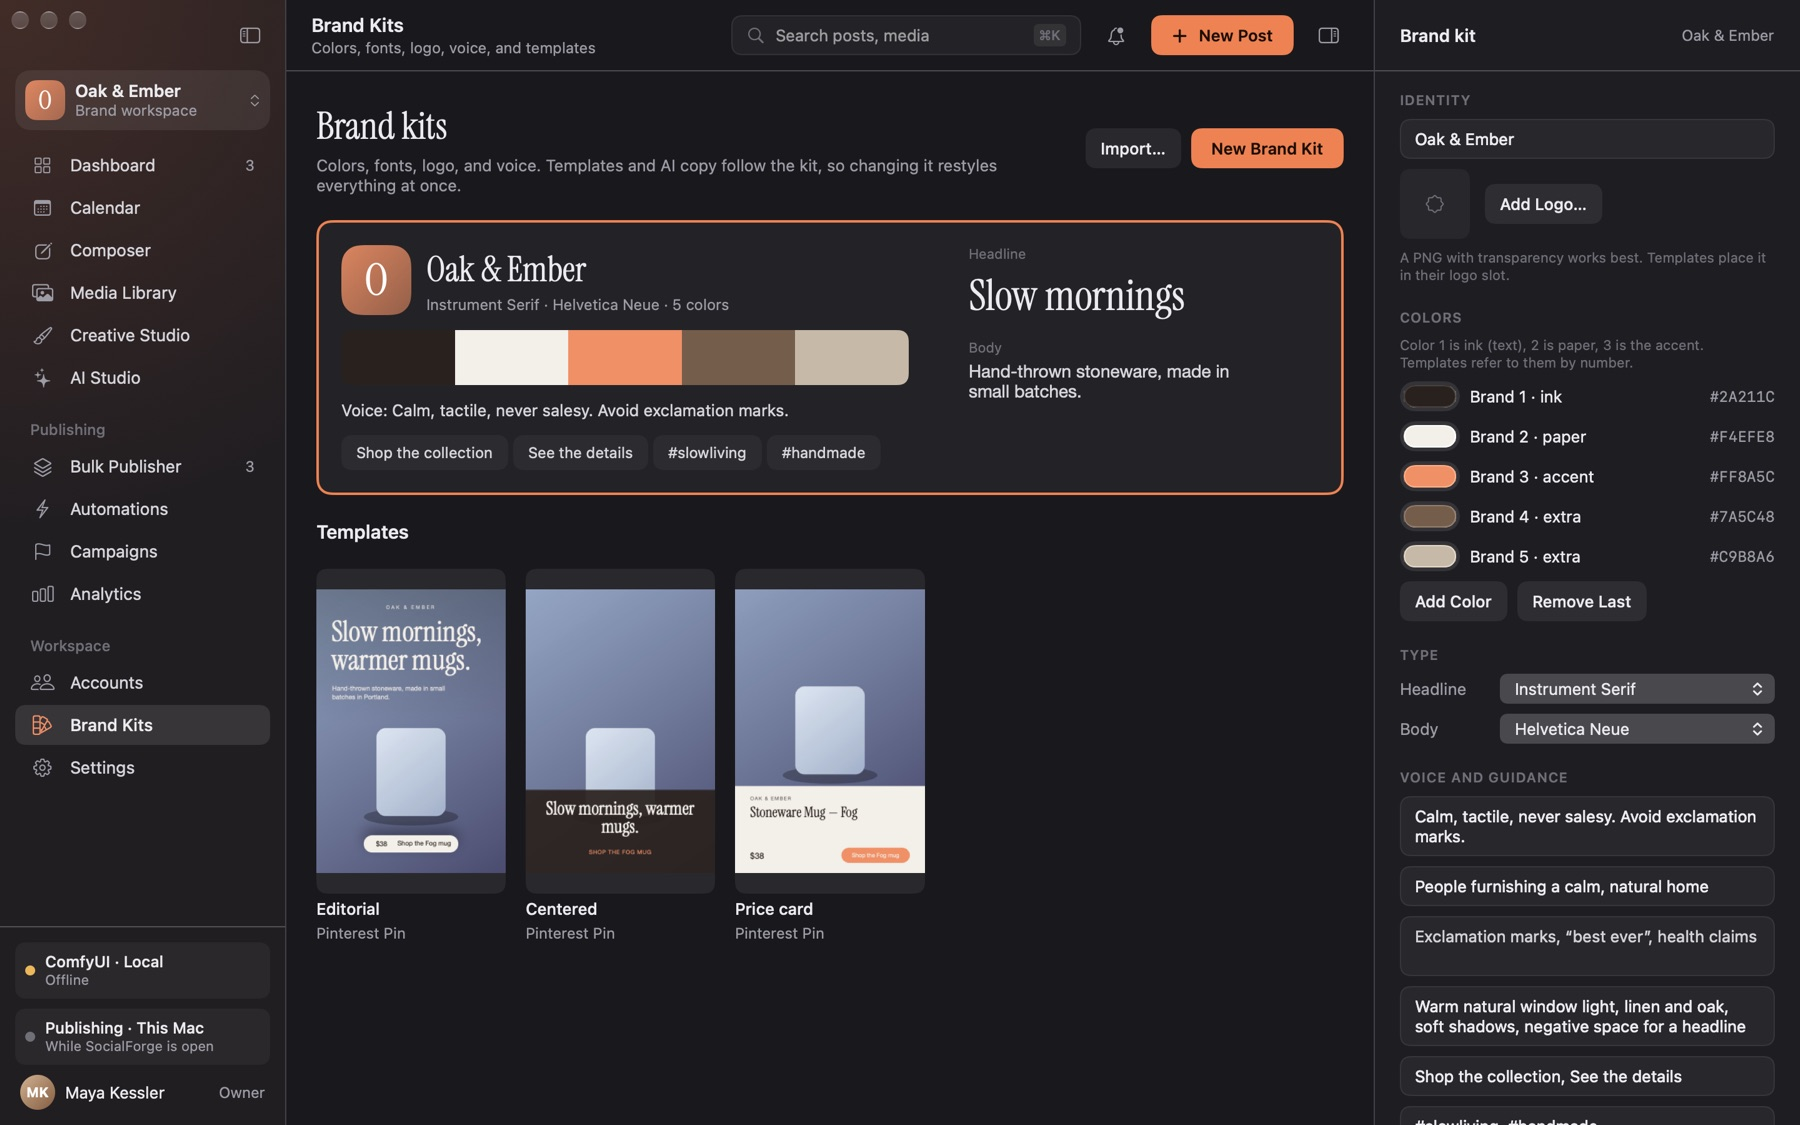
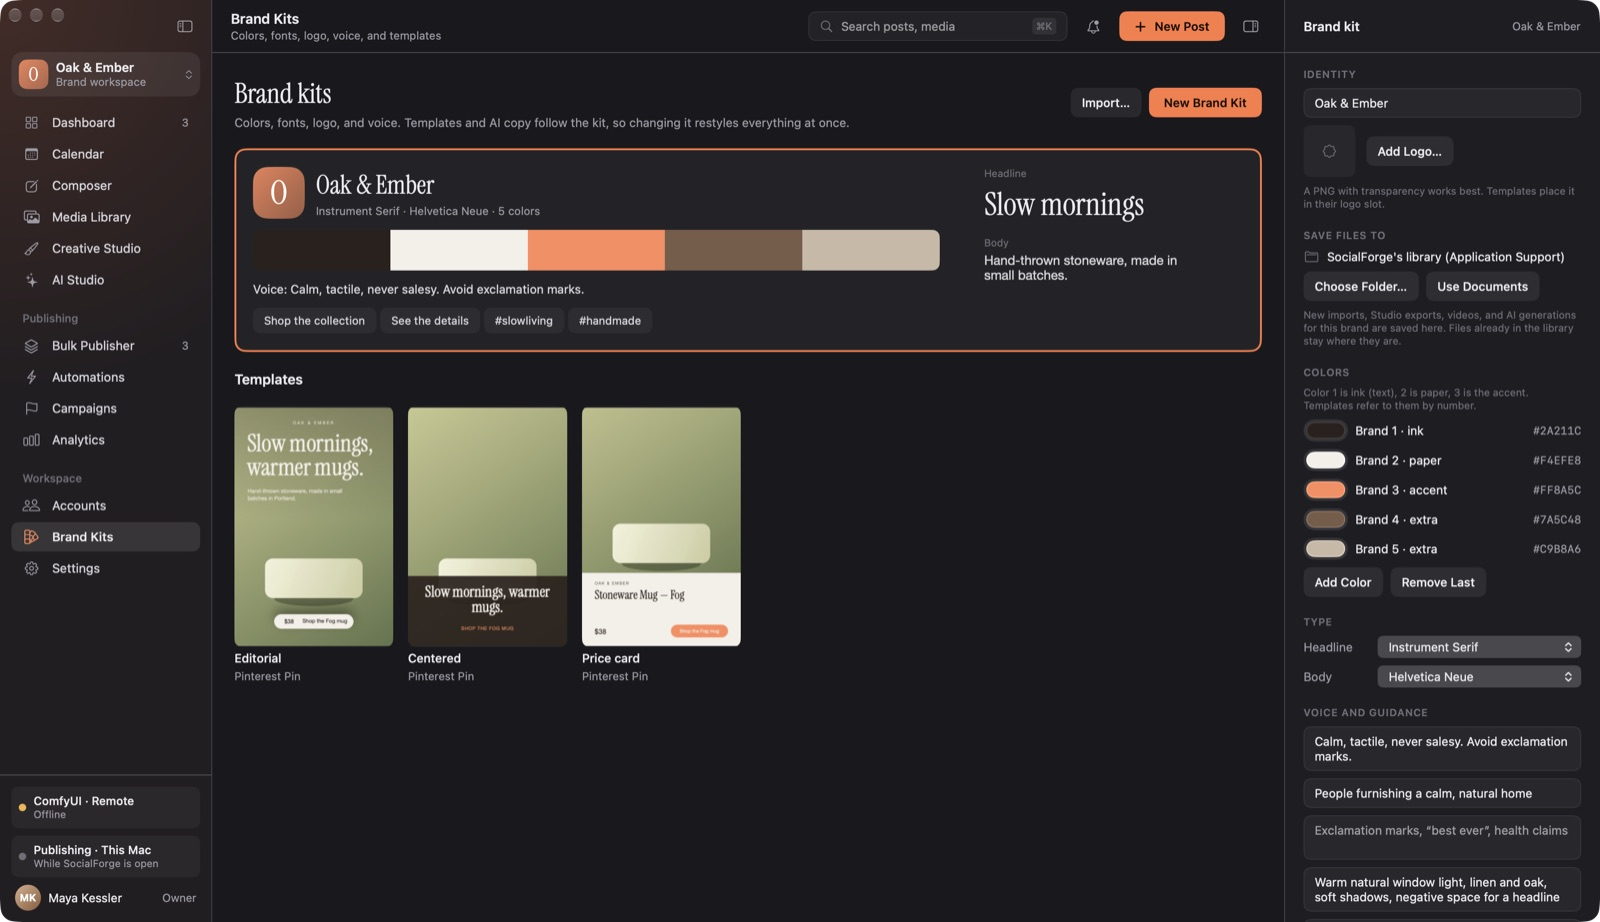
SocialForge 0.5.0: unified connections, 8 platform adapters, hardened OAuth/MCP, workflow & API upgrades

diff --git a/index.html b/index.html
@@ -3,6 +3,7 @@
 <head>
 <meta charset="utf-8">
 <meta name="viewport" content="width=device-width, initial-scale=1">
+<meta name="referrer" content="no-referrer">
 <title>SocialForge</title>
 <meta name="description" content="A native Mac studio that turns product photos, clips, and a CSV into on-brand Pins, Reels, and Shorts, with your own ComfyUI for images, video, and music.">
 <link rel="icon" href="assets/icon.png">
@@ -140,9 +141,9 @@ footer { padding: 40px 0 60px; color: var(--text2); font-size: 14px; display: fl
 
   <header class="hero">
     <div>
-      <span class="eyebrow"><b>●</b> Native for macOS 26 · free and open source · version 0.3</span>
+      <span class="eyebrow"><b>●</b> Native for macOS 26 · free and open source · version 0.5.0</span>
       <h1 class="serif">Pins, Reels, and Shorts,<br>forged in <em>one sitting</em>.</h1>
-      <p class="lede">Drop in product photos, clips, music, and a CSV of links. SocialForge dresses every image and video in your brand template with real, editable type, makes backgrounds, clips, and songs with your own ComfyUI, plans the calendar, and posts from your Mac. You approve everything first.</p>
+      <p class="lede">Drop in product photos, clips, music, and a CSV of links. SocialForge dresses every image and video in your brand template with real, editable type, generates assets with your own ComfyUI or BYOK AI providers, plans the calendar, and posts across eight platforms from your Mac. You approve everything first.</p>
       <div class="ctas">
         <a class="btn primary" href="https://github.com/rmclain/socialforge/releases/latest">Download for Mac <span class="spark">✦</span></a>
         <a class="btn ghost" href="https://github.com/rmclain/socialforge">View the code</a>
@@ -174,12 +175,12 @@ footer { padding: 40px 0 60px; color: var(--text2); font-size: 14px; display: fl
     <div class="shot"><img src="assets/studio-video-dark.jpg" alt="Creative Studio editing a 12-second TikTok video: layers, a product clip, a music track, a timeline, and which platforms the video fits" loading="lazy"></div>
     <p class="fine">Creative Studio, video edition: a looping product clip, a music track that fades out, a headline that appears at two seconds, and a check against every platform's video rules. Export Video writes an MP4 with real fonts.</p>
     <div class="gallery" style="margin-top:20px">
-      <figure><div class="shot"><img src="assets/ai-video-crop.jpg" alt="AI Studio in Video mode with a prompt, workflow, aspect, and length" loading="lazy"></div><figcaption>AI Studio makes clips with your ComfyUI: pick the aspect and length, then drop the result straight onto a design.</figcaption></figure>
-      <figure><div class="shot"><img src="assets/ai-music-crop.jpg" alt="AI Studio in Music mode with a style line and lyrics" loading="lazy"></div><figcaption>Music mode writes a song from a style line and your lyrics, ready to sit under a video.</figcaption></figure>
-      <figure><div class="shot"><img src="assets/bulk-dark.jpg" alt="Bulk Publisher: images matched to a CSV, a queue of Pins, and the cadence panel" loading="lazy"></div><figcaption>Bulk Publisher: thirty photos and a CSV become a month of scheduled Pins.</figcaption></figure>
-      <figure><div class="shot"><img src="assets/settings-publishing-dark.jpg" alt="Settings, Publishing: every platform with its status and video limits" loading="lazy"></div><figcaption>Every platform, with an honest status and its video rules.</figcaption></figure>
-      <figure><div class="shot"><img src="assets/calendar-dark.jpg" alt="Calendar month view with a Pin on every day" loading="lazy"></div><figcaption>The calendar: drag a post to another day; its time stays put.</figcaption></figure>
-      <figure><div class="shot"><img src="assets/brandKits-dark.jpg" alt="Brand kit with palette, fonts, voice, and templates" loading="lazy"></div><figcaption>Brand kits drive every template. Change a color once; everything follows.</figcaption></figure>
+      <figure><div class="shot"><img src="assets/accounts-dark.jpg" alt="Unified Connections hub with Social Accounts, AI Providers, Media Storage, Automation and Agents, and Publishing Infrastructure" loading="lazy"></div><figcaption>Unified Connections: guided setup wizards, shared credentials across brand workspaces, and sanitized diagnostics.</figcaption></figure>
+      <figure><div class="shot"><img src="assets/composer-dark.jpg" alt="Multi-platform Composer supporting all 8 platforms, carousels, AI Copy, and native previews" loading="lazy"></div><figcaption>Composer: write once for all eight platforms, attach carousels, generate AI copy, and schedule independently.</figcaption></figure>
+      <figure><div class="shot"><img src="assets/bulk-dark.jpg" alt="Bulk Publisher: images matched to a CSV, multi-platform queue, recipes, and cadence panel" loading="lazy"></div><figcaption>Bulk Publisher: thirty photos and a CSV become a month of scheduled posts, with saved recipes and error export.</figcaption></figure>
+      <figure><div class="shot"><img src="assets/calendar-dark.jpg" alt="Calendar month view with a post on every day and attention-focused queue" loading="lazy"></div><figcaption>The calendar and queue: DST-safe rescheduling, attention filters, and manual reconciliation for uncertain timeouts.</figcaption></figure>
+      <figure><div class="shot"><img src="assets/ai-video-crop.jpg" alt="AI Studio in Video mode with a prompt, workflow, aspect, and length" loading="lazy"></div><figcaption>AI Studio makes clips and music with your ComfyUI (with preflight workflow validation), ready for Creative Studio.</figcaption></figure>
+      <figure><div class="shot"><img src="assets/brandKits-dark.jpg" alt="Brand kit with palette, fonts, voice, and templates" loading="lazy"></div><figcaption>Brand kits drive every template and keep workspaces strictly isolated. Change a color once; everything follows.</figcaption></figure>
     </div>
   </section>
 
@@ -192,31 +193,33 @@ footer { padding: 40px 0 60px; color: var(--text2); font-size: 14px; display: fl
       <div class="feature"><div class="ico">🎬</div><h3>Video studio</h3><p>Drop clips and music on the canvas, time each layer, and export an MP4 (H.264 and AAC) sized for TikTok, Reels, Shorts, Pinterest, and more.</p></div>
       <div class="feature"><div class="ico">✨</div><h3>AI Studio</h3><p>Images, clips, and songs from your own ComfyUI, plus titles and descriptions from OpenAI, Anthropic, Gemini, or a local model. Type stays real text unless you ask the model for it.</p></div>
       <div class="feature"><div class="ico">🧩</div><h3>Starter workflows</h3><p>Five ComfyUI workflows ship in the app: background image, image with words in it, vertical and square video, and music. <a href="https://github.com/rmclain/socialforge/tree/main/comfyui/workflows">Download them</a> for your own ComfyUI.</p></div>
-      <div class="feature"><div class="ico">📮</div><h3>Publishing</h3><p>Your Mac posts to Pinterest, Facebook Pages, Instagram, and Threads with your own developer apps, with retries and no double posts after a timeout.</p></div>
-      <div class="feature"><div class="ico">✍</div><h3>Composer</h3><p>Write once and get a version per platform, with its own preview and limits, including video rules.</p></div>
-      <div class="feature"><div class="ico">✂</div><h3>On-device magic</h3><p>Remove backgrounds, smart-crop around the subject, upscale, and tone to your brand color. Your photos never leave the Mac.</p></div>
-      <div class="feature"><div class="ico">⚡</div><h3>Automations</h3><p>Watch a folder, resize, brand, write, and queue. Every run stops for your approval.</p></div>
+      <div class="feature"><div class="ico">📮</div><h3>Publishing</h3><p>Your Mac posts to Pinterest, Facebook Pages, Instagram, Threads, LinkedIn, X, TikTok, and YouTube with your own developer apps, PKCE OAuth, token refresh, retries, and reconciliation.</p></div>
+      <div class="feature"><div class="ico">✍</div><h3>Composer</h3><p>Write once and get tailored versions for all eight platforms, carousels, native previews, campaign UTMs, and disclosure fields.</p></div>
+      <div class="feature"><div class="ico">🔌</div><h3>Inbound &amp; Outbound MCP</h3><p>Let coding agents queue drafts for review via a hardened 17-tool MCP server, or connect creative MCP tools like ArtCraft with per-tool allow-lists and approval prompts.</p></div>
+      <div class="feature"><div class="ico">⚡</div><h3>Automations</h3><p>Watch a folder, resize, brand, write, and queue. Workspace-isolated, protected against watching managed storage, and always stopping for your approval.</p></div>
     </div>
   </section>
 
   <section id="platforms">
     <h2 class="serif">Where it posts</h2>
-    <p class="sub">Posting goes through developer apps you create on each platform, so your keys stay in your Keychain.</p>
+    <p class="sub">Posting goes through developer apps you create on each platform, so your keys stay in your macOS Keychain. Guided setup wizards live under Connections.</p>
     <div class="honest">
       <div class="col">
-        <h3>Posts from your Mac</h3>
+        <h3>Direct from your Mac</h3>
         <ul>
-          <li><b>Pinterest</b>: image Pins, scheduled in bulk</li>
-          <li><b>Facebook Pages</b>: text, photos, and Reels</li>
-          <li><b>Instagram</b>: Reels upload straight from your Mac; photos need a public storage bucket (Cloudflare R2 or any S3-compatible one)</li>
-          <li><b>Threads</b>: text posts; photos and video use the same storage bucket</li>
+          <li><b>Pinterest</b>: Image &amp; Video Pins, board sections, OAuth refresh</li>
+          <li><b>Facebook Pages</b>: text, photo, multi-photo, link, and Reels</li>
+          <li><b>Instagram</b>: Facebook Login or direct Instagram Business Login; Reels upload directly, photos &amp; carousels use your S3/R2 bucket</li>
+          <li><b>Threads</b>: text, photo, video, and carousels with long-lived token refresh</li>
         </ul>
       </div>
       <div class="col">
-        <h3>Export or drafts</h3>
+        <h3>Official OAuth &amp; PKCE adapters</h3>
         <ul>
-          <li><b>TikTok</b> and <b>YouTube Shorts</b>: SocialForge makes the video at the right size and length; you upload it. Their APIs keep posts private until an app passes their audit.</li>
-          <li><b>X</b> and <b>LinkedIn</b>: saved as drafts for now</li>
+          <li><b>LinkedIn</b>: personal profiles and organization pages with media upload</li>
+          <li><b>X</b>: OAuth 2.0 PKCE, v2 chunked media upload, weighted character counting</li>
+          <li><b>TikTok</b>: Content Posting API v2 with creator info check, Inbox &amp; Direct Post (plus manual fallback for unaudited apps)</li>
+          <li><b>YouTube</b>: Google OAuth PKCE resumable upload for Videos &amp; Shorts with visibility and disclosure fields</li>
         </ul>
       </div>
     </div>
@@ -228,20 +231,20 @@ footer { padding: 40px 0 60px; color: var(--text2); font-size: 14px; display: fl
       <div class="col">
         <h3>Works today</h3>
         <ul>
-          <li>The whole bulk Pinterest flow, end to end, with a built-in mock account to try it safely</li>
-          <li>Video designs with clips, music, and timed layers, exported as MP4 and checked by automated tests</li>
-          <li>AI Studio's image, image-with-text, video, and music starter workflows, run end to end on a real ComfyUI server</li>
-          <li>Brand templates, smart resize, analytics from your real data, campaigns with UTM links</li>
-          <li>Automatic updates from these GitHub releases</li>
+          <li>Unified Connections hub, guided setup wizards, Keychain credential profiles, and secret-redacted diagnostics</li>
+          <li>End-to-end bulk publishing, calendar, attention queue, and background agent lock handoff (197 unit tests, 89 E2E self-test checks, 23 optional API tests)</li>
+          <li>Video studio with clips, music, safe-zone guides, and MP4 export; ComfyUI workflow validation &amp; job-scoped cancellation</li>
+          <li>Brand templates, smart resize, multi-brand workspace isolation, campaigns with UTM links, and hardened Inbound/Outbound MCP</li>
+          <li>Automatic updates from GitHub releases with TeamIdentifier and bundle-ID verification</li>
         </ul>
       </div>
       <div class="col">
         <h3>Still on the workbench</h3>
         <ul>
-          <li>Live posting to Pinterest, Facebook, Instagram, and Threads is built to their docs and tested against stand-ins, but hasn't made its first real post yet</li>
-          <li>TikTok and YouTube are export-only, and X and LinkedIn are drafts</li>
-          <li>A Mac can't post while it's asleep: due posts go out when it wakes</li>
-          <li>The cloud AI connections are built to their docs; bring your own key and test it</li>
+          <li>All eight social platform adapters are built against official API docs and verified with stubbed HTTP tests, but remain labeled <b>unverified live</b> until run with real developer credentials</li>
+          <li>A Mac can't post while asleep (due posts follow your missed-post policy on wake); the optional Fastify service in <code>services/api</code> covers asleep-Mac Pinterest publishing</li>
+          <li>Background publisher Login Items registration (<code>SMAppService</code>) requires interactive approval in System Settings</li>
+          <li>Cloud AI, ComfyUI, and S3/R2 connections are tested with stubbed HTTP; bring your own key/bucket and run Verify Connection</li>
         </ul>
       </div>
     </div>
@@ -276,19 +279,30 @@ footer { padding: 40px 0 60px; color: var(--text2); font-size: 14px; display: fl
   <button class="btn primary" id="signin-copy" type="button">Copy address</button>
 </div>
 <script>
-// Threads sends people back here after they sign in (SocialForge's redirect). Help them hand the address to the app.
+// Threads sends people back here after they sign in (SocialForge's redirect).
+// Capture the full callback URL into memory and immediately strip sensitive query/fragment
+// parameters from the address bar and history so codes cannot leak via referrers or history.
 (function () {
-  var q = new URLSearchParams(location.search);
-  if (!q.has("code") && !q.has("error")) return;
+  var rawURL = location.href;
+  var search = location.search;
+  var hashParams = new URLSearchParams(location.hash ? location.hash.replace(/^#/, "") : "");
+  var q = new URLSearchParams(search);
+  var hasCode = q.has("code") || hashParams.has("code");
+  var hasError = q.has("error") || hashParams.has("error");
+  if (!hasCode && !hasError) return;
+  try {
+    history.replaceState(null, "", location.pathname);
+  } catch (_) {}
   var box = document.getElementById("signin");
-  if (q.has("error")) {
-    document.getElementById("signin-title").textContent = "Threads sign-in was not completed";
-    document.getElementById("signin-text").textContent = q.get("error_description") || "Try Connect Threads again in SocialForge.";
+  if (hasError) {
+    document.getElementById("signin-title").textContent = "Sign-in was not completed";
+    document.getElementById("signin-text").textContent =
+      q.get("error_description") || hashParams.get("error_description") || "Try connecting again in SocialForge.";
     document.getElementById("signin-copy").style.display = "none";
   }
   document.getElementById("signin-copy").addEventListener("click", function () {
     var b = this;
-    navigator.clipboard.writeText(location.href).then(function () { b.textContent = "Copied. Paste it into SocialForge"; });
+    navigator.clipboard.writeText(rawURL).then(function () { b.textContent = "Copied. Paste it into SocialForge"; });
   });
   box.className += " show";
 })();
